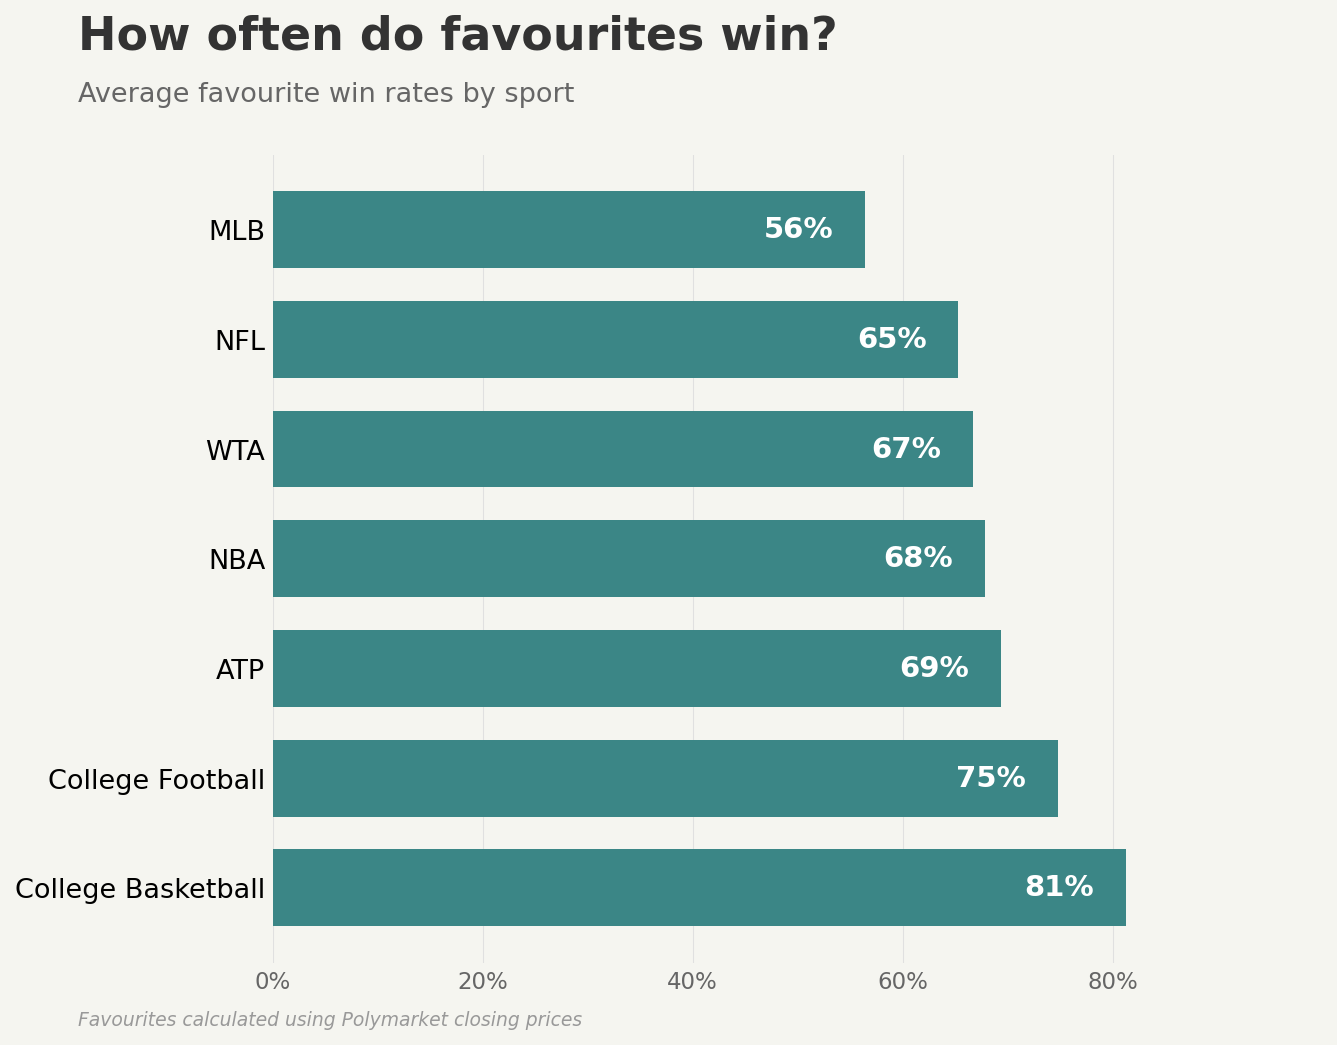
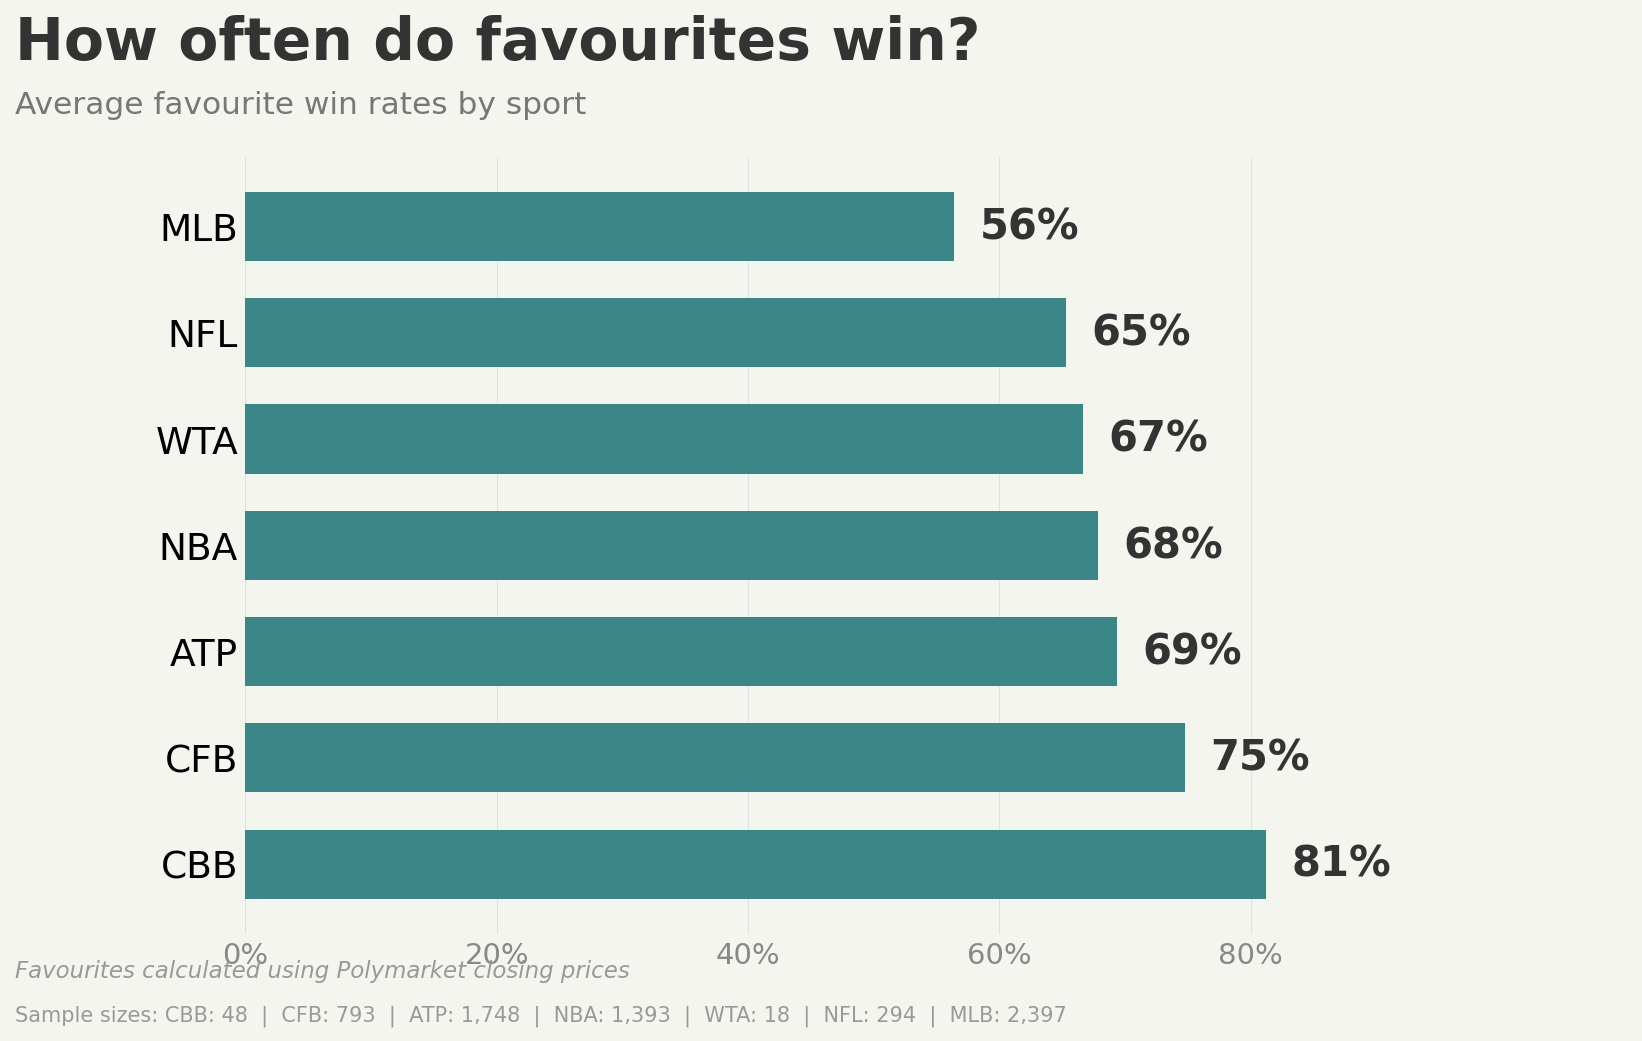
Update favourite win rates chart and improve sports categorization

diff --git a/generate_chart.py b/generate_chart.py
@@ -21,8 +21,9 @@ SPORT_DISPLAY_NAMES = {
     "nba": "NBA",
     "nfl": "NFL",
     "mlb": "MLB",
-    "cfb": "College Football",
-    "ncaab": "College Basketball",
+    "cfb": "CFB",
+    "ncaab": "CBB",
+    "cbb": "CBB",
 }
 
 # Chart styling
@@ -51,9 +52,12 @@ def calculate_favourite_win_rates(df):
     closed_df = df[df["closed"] == 1].copy()
     print(f"Analyzing {len(closed_df)} closed events")
 
+    # Merge ncaab and cbb into single "cbb" category
+    closed_df["sport"] = closed_df["sport"].replace({"ncaab": "cbb"})
+
     results = {}
 
-    for sport in df["sport"].unique():
+    for sport in closed_df["sport"].unique():
         sport_df = closed_df[closed_df["sport"] == sport]
 
         if len(sport_df) == 0:
@@ -106,6 +110,7 @@ def create_chart(data, output_file):
     # Prepare data for plotting
     sports = []
     win_rates = []
+    sample_sizes = []
 
     # Sort by win rate descending
     sorted_data = sorted(data.items(), key=lambda x: x[1][0], reverse=True)
@@ -114,39 +119,41 @@ def create_chart(data, output_file):
         display_name = SPORT_DISPLAY_NAMES.get(sport_code, sport_code.upper())
         sports.append(display_name)
         win_rates.append(win_rate)
+        sample_sizes.append((sport_code, total))
 
-    # Create figure with The Athletic's style
-    fig, ax = plt.subplots(figsize=(10, 7))
+    # Reverse lists so highest appears at top (matplotlib plots index 0 at bottom)
+    sports.reverse()
+    win_rates.reverse()
+    sample_sizes.reverse()
+
+    # Create figure with 16:9 widescreen format (1920x1080 at 150 dpi)
+    fig, ax = plt.subplots(figsize=(12.8, 7.2))
     fig.patch.set_facecolor(BACKGROUND_COLOR)
     ax.set_facecolor(BACKGROUND_COLOR)
 
-    # Create horizontal bars (reversed so highest is at top)
+    # Create horizontal bars with better spacing
     y_pos = range(len(sports))
-    bars = ax.barh(y_pos, win_rates, color=BAR_COLOR, height=0.7)
+    bars = ax.barh(y_pos, win_rates, color=BAR_COLOR, height=0.65)
 
-    # Add percentage labels inside bars
+    # Add percentage labels at end of bars (outside for visibility)
     for i, (bar, rate) in enumerate(zip(bars, win_rates)):
-        # Position label inside the bar, near the right edge
-        label_x = bar.get_width() - 3 if bar.get_width() > 15 else bar.get_width() + 1
-        text_color = "white" if bar.get_width() > 15 else TEXT_COLOR
-        ha = "right" if bar.get_width() > 15 else "left"
-
         ax.text(
-            label_x, bar.get_y() + bar.get_height() / 2,
+            bar.get_width() + 2,
+            bar.get_y() + bar.get_height() / 2,
             f"{rate:.0f}%",
-            va="center", ha=ha,
-            fontsize=14, fontweight="bold",
-            color=text_color
+            va="center", ha="left",
+            fontsize=20, fontweight="bold",
+            color=TEXT_COLOR
         )
 
-    # Set sport names on y-axis
+    # Set sport names on y-axis (left-aligned, larger font)
     ax.set_yticks(y_pos)
-    ax.set_yticklabels(sports, fontsize=13)
+    ax.set_yticklabels(sports, fontsize=18, ha="right")
 
     # Set x-axis range and labels
-    ax.set_xlim(0, 100)
+    ax.set_xlim(0, 110)  # Extra space for labels
     ax.set_xticks([0, 20, 40, 60, 80])
-    ax.set_xticklabels(["0%", "20%", "40%", "60%", "80%"], fontsize=11, color="#666666")
+    ax.set_xticklabels(["0%", "20%", "40%", "60%", "80%"], fontsize=14, color="#888888")
 
     # Add light vertical grid lines
     ax.xaxis.grid(True, color=GRID_COLOR, linestyle="-", linewidth=0.5)
@@ -160,28 +167,41 @@ def create_chart(data, output_file):
     ax.tick_params(axis="y", length=0)
     ax.tick_params(axis="x", length=0)
 
-    # Add title and subtitle
+    # Add title and subtitle (reduced size)
     fig.text(
-        0.12, 0.95,
+        0.06, 0.93,
         "How often do favourites win?",
-        fontsize=22, fontweight="bold",
+        fontsize=28, fontweight="bold",
         color=TEXT_COLOR, ha="left"
     )
     fig.text(
-        0.12, 0.90,
+        0.06, 0.88,
         "Average favourite win rates by sport",
-        fontsize=13, color="#666666", ha="left"
+        fontsize=15, color="#777777", ha="left"
     )
 
-    # Add footer note
+    # Build sample size footer (single line)
+    sample_parts = []
+    for code, total in sample_sizes:
+        sport_name = SPORT_DISPLAY_NAMES.get(code, code.upper())
+        sample_parts.append(f"{sport_name}: {total:,}")
+
+    sample_text = "  |  ".join(sample_parts)
+
+    # Add footer notes
     fig.text(
-        0.12, 0.02,
+        0.06, 0.08,
         "Favourites calculated using Polymarket closing prices",
-        fontsize=9, color="#999999", ha="left", style="italic"
+        fontsize=11, color="#999999", ha="left", style="italic"
+    )
+    fig.text(
+        0.06, 0.04,
+        f"Sample sizes: {sample_text}",
+        fontsize=10, color="#999999", ha="left"
     )
 
     # Adjust layout
-    plt.subplots_adjust(left=0.25, right=0.95, top=0.85, bottom=0.08)
+    plt.subplots_adjust(left=0.18, right=0.90, top=0.84, bottom=0.12)
 
     # Save chart
     plt.savefig(output_file, dpi=150, facecolor=BACKGROUND_COLOR, bbox_inches="tight")

diff --git a/fetch_events.py b/fetch_events.py
@@ -52,7 +52,8 @@ SPORTS_TO_FETCH = [
     (450, ["nfl"]),             # NFL
     (100381, ["mlb"]),          # MLB
     (100351, ["cfb"]),          # College Football
-    (100149, ["ncaab"]),        # College Basketball
+    (100149, ["ncaab"]),        # College Basketball (March Madness)
+    (101178, ["cbb"]),          # College Basketball (Regular Season)
 ]
 
 # Minimum year for events (filter out older data with incomplete price history)
